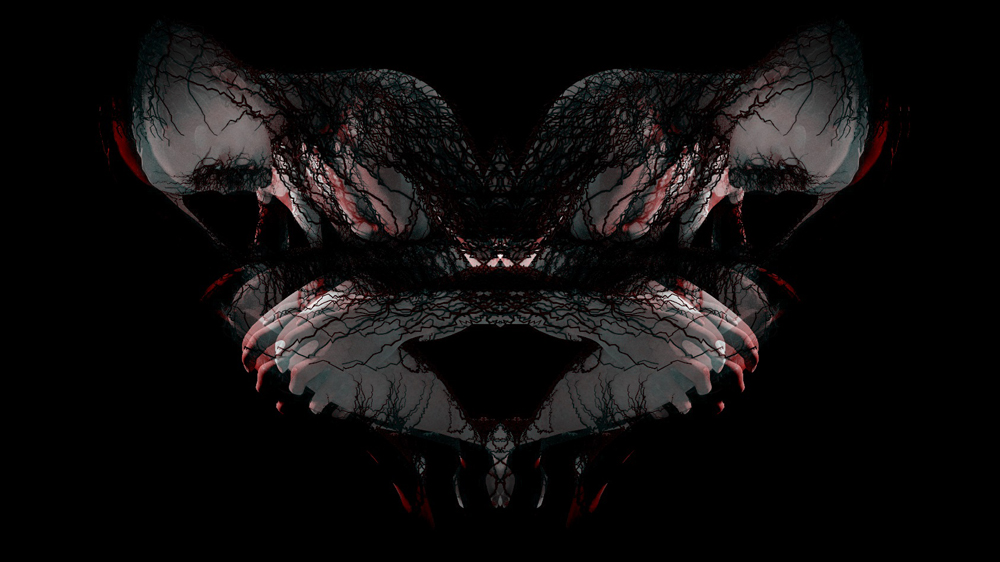
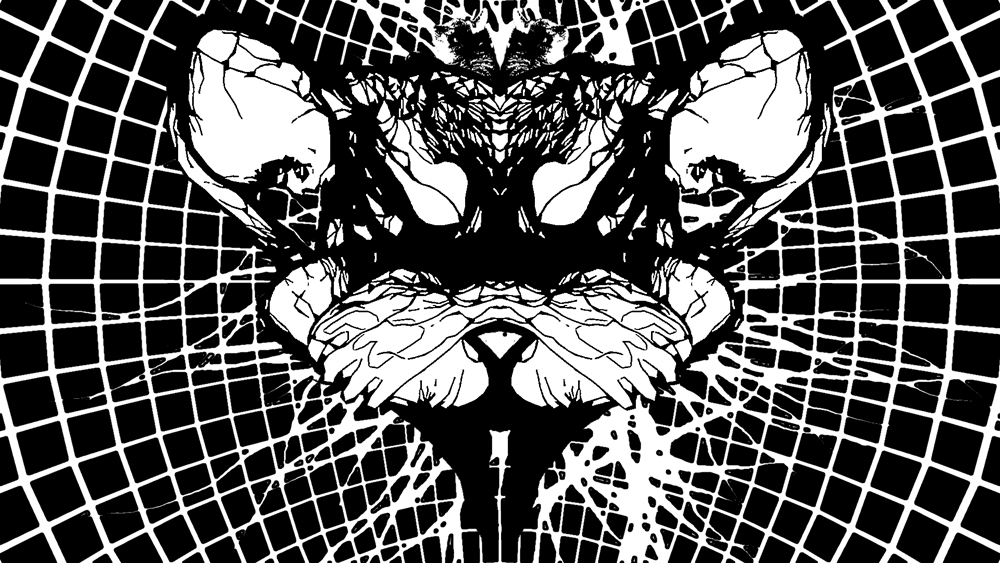
added selfie in about, new 2d painting picture

diff --git a/pages/about/about.html b/pages/about/about.html
@@ -83,15 +83,14 @@
         </div>
 
 
+
         <div class="col-sm-6">
           <div class="resume-box center">
-            <object width="auto" height="450" data="../../images/about/EricCharlesResume.pdf"></object>
-            <br>
-            <a href="../../images/about/EricCharlesResume.pdf" target="_blank">Download Resume</a>
-            <br>
+            <object width="auto" height="450" data="../../images/about/me.jpg"></object>
           </div>
-
         </div>
+
+
 
       </div>
     </div>
@@ -175,6 +174,12 @@
 
 
         <div class="col-sm-6">
+          <div class="resume-box center">
+            <object width="auto" height="450" data="../../images/about/EricCharlesResume.pdf"></object>
+            <br>
+            <a href="../../images/about/EricCharlesResume.pdf" target="_blank">Download Resume</a>
+            <br>
+          </div>
         </div>
 
       </div>

diff --git a/pages/digital/2d.html b/pages/digital/2d.html
@@ -103,6 +103,9 @@
           <a href="../../images/digital/2d/9.jpg" data-lightbox="photography_g" class="thumbnail">
             <img src="../../images/digital/2d/thm/9.jpg" width=100% height=auto alt="insert image here">
           </a>
+          <a href="../../images/digital/2d/10.jpg" data-lightbox="photography_g" class="thumbnail">
+            <img src="../../images/digital/2d/thm/10.jpg" width=100% height=auto alt="insert image here">
+          </a>
 
 
         </div>
